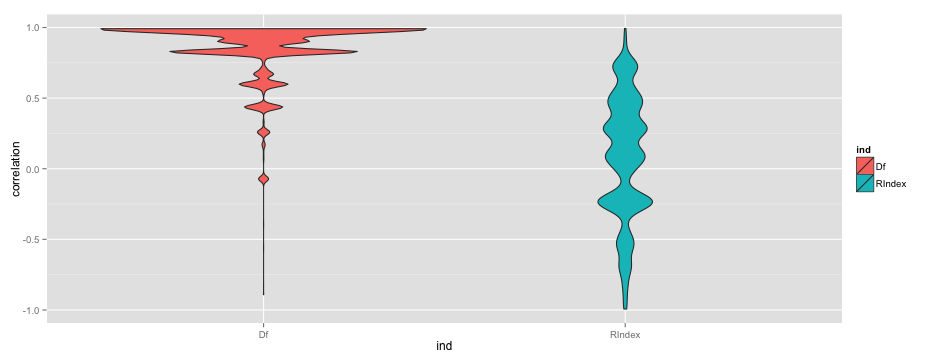
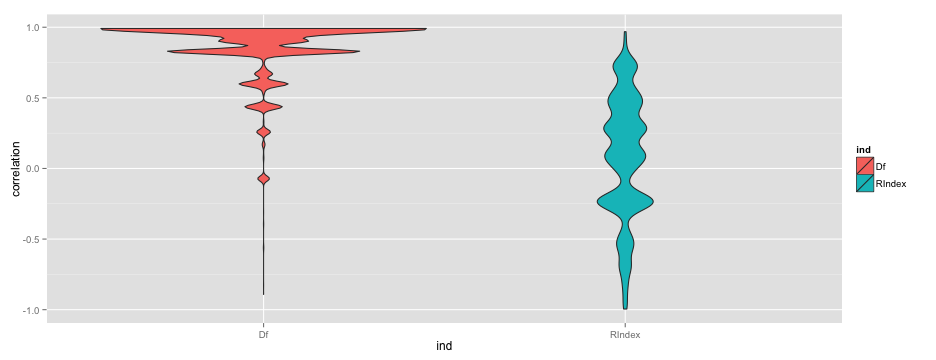
publishing deck

diff --git a/Index.html b/Index.html
@@ -44,10 +44,10 @@
     <!-- SLIDES -->
       <slide class="" id="slide-1" style="background:;">
   <hgroup>
-    <h1>Introduzione</h1>
+    <h2>Introduzione</h2>
   </hgroup>
   <article>
-    <p>Per dare un senso a quello che dicevo in email, ho creato un <em>framework</em> per testare la bontà dei diversi indici di presenza di habitat di salamandre che si possono calcolare rimescolando le variae misure da prendere in campo (perimetro, diametro, numero delle concavità ecc.). Il <em>framework</em> è un semplice <em>script</em> R, lo stesso che ha prodotto questo breve <em>report</em>.</p>
+    <p>Per dare un senso a quello che dicevo, ho creato un <em>framework</em> per testare la bontà dei diversi indici di presenza di habitat di salamandre che si possono calcolare rimescolando le variae misure da prendere in campo (perimetro, diametro, numero delle concavità ecc.). Il <em>framework</em> è un semplice <em>script</em> R, lo stesso che ha prodotto questo breve <em>report</em>.</p>
 
 <p>Per testare lo script ho disegnato il profilo di tre ceppaie afferenti a tre tipologie diverse per potenziale presenza di habitat (nessuno [<code>Cerchio</code>], qualche [<code>Carpino</code>], molti [<code>Carpinoso</code>] habitat):</p>
 
@@ -55,16 +55,26 @@
 <img src="images/Carpino.jpg" alt="Ipotetica ceppaia con habitat">
 <img src="images/Carpinoso.jpg" alt="Ipotetica ceppaia con molti habitat"></p>
 
-<p>Il framework calcola tutti i potenziali indici per ciascuna tipologia, simula il conteggio delle salamandre trovate nelle 3 ceppaie e calcola la correlazione tra ciascuno degli indici e il conteggio di salamandre per ogni tipologia di ceppaia. Una migliore correlazione indica un indice più performante.
-Per ora, gli indici considerati in questo test sono solo la dimensione frattale e l&#39;indice proposto da Romano.</p>
-
   </article>
   <!-- Presenter Notes -->
 </slide>
 
       <slide class="" id="slide-2" style="background:;">
   <hgroup>
-    <h2>Misure</h2>
+    <h2>Cosa fa lo script</h2>
+  </hgroup>
+  <article>
+    <p>Il framework calcola tutti gli indici per ciascuna tipologia, simula un conteggio delle salamandre che si potrebbero potenzialmente rilevare in ciascuna delle 3 tipologie di ceppaie e calcola la correlazione tra ciascuno degli indici e il conteggio di salamandre per ogni tipologia di ceppaia. Una migliore correlazione indica un indice più performante.</p>
+
+<p>Per ora, gli indici considerati in questo test sono solo la dimensione frattale e l&#39;indice proposto da Romano.</p>
+
+  </article>
+  <!-- Presenter Notes -->
+</slide>
+
+      <slide class="" id="slide-3" style="background:;">
+  <hgroup>
+    <h3>Misure</h3>
   </hgroup>
   <article>
     <p>Su ciascuno, con <code>ImageJ</code>, ho misurato la dimensione frattale (<code>Df</code>), perimetro (<code>B</code>), diametro massimo (<code>maxD</code>) ed ho imnposto che il diametro a 1.30m sia 100 (<code>dbh</code>), ossia il diametro della ceppaia a cerchio:</p>
@@ -79,9 +89,9 @@ Per ora, gli indici considerati in questo test sono solo la dimensione frattale 
   <!-- Presenter Notes -->
 </slide>
 
-      <slide class="" id="slide-3" style="background:;">
+      <slide class="" id="slide-4" style="background:;">
   <hgroup>
-    <h2>Simulazione</h2>
+    <h3>Simulazione</h3>
   </hgroup>
   <article>
     <p>La simulazione siumula di trovare le salamandre in ciascuna tipologia di ceppaia. La simulazione del conteggio di salamandre avviene estraendo numeri da una distribuzione normale di media e deviazione standard prefissati, per ogni tipologia di ceppaia:</p>
@@ -92,9 +102,9 @@ Per ora, gli indici considerati in questo test sono solo la dimensione frattale 
 ## 3   Cerchio    0  0.5
 </code></pre>
 
-<p>Per esempio, il numero di salamandre trovate nella simulazione della ceppaia <code>Carpinoso</code> viene estratta da una \(\mathcal{N}(\) 3 \(,\) 1 \()\) troncata a 0. Su 10 alberi carpinosi, potremmo trovare: 2, 2, 3, 2, 3, 4, 1, 2, 3, 3 salamandre.</p>
+<p>Per esempio, il numero di salamandre trovate nella simulazione della ceppaia <code>Carpinoso</code> viene estratta da una \(\mathcal{N}(\) 3 \(,\) 1 \()\) troncata a 0. Su 10 alberi carpinosi, potremmo trovare: 2, 3, 3, 2, 1, 4, 4, 3, 2, 1 salamandre.</p>
 
-<p>Per la ceppaia <code>Carpino</code>, invece, potremmo avere un numero di salamandre da una \(\mathcal{N}(\) 2 \(,\) 1 \()\), per esempio: 3, 3, 2, 2, 2, 1, 2, 2, 3, 3</p>
+<p>Per la ceppaia <code>Carpino</code>, invece, potremmo avere un numero di salamandre da una \(\mathcal{N}(\) 2 \(,\) 1 \()\), per esempio: 1, 2, 1, 0, 2, 2, 3, 4, 1, 2</p>
 
 <p><strong>I parametri delle distribuzioni sono da definire secondo l&#39;esperienza di Antonio.</strong></p>
 
@@ -102,9 +112,9 @@ Per ora, gli indici considerati in questo test sono solo la dimensione frattale 
   <!-- Presenter Notes -->
 </slide>
 
-      <slide class="" id="slide-4" style="background:;">
+      <slide class="" id="slide-5" style="background:;">
   <hgroup>
-    <h1>Valori degli indici</h1>
+    <h2>Valori dell&#39;indice di A.Romano</h2>
   </hgroup>
   <article>
     <p>I valori dell&#39;indice di A. Romano per le tre ceppaie, secondo l&#39;equazione \(\left(\frac{B}{C}/\frac{C}{T}\right)-1\) e la dimensione frattale sono:</p>
@@ -129,20 +139,20 @@ print(sIndexRaw[, c(&quot;Forma&quot;, &quot;RIndex&quot;, &quot;Df&quot;)])
   <!-- Presenter Notes -->
 </slide>
 
-      <slide class="" id="slide-5" style="background:;">
+      <slide class="" id="slide-6" style="background:;">
   <hgroup>
-    <h1>Simulazione</h1>
+    <h2>Simulazione</h2>
   </hgroup>
   <article>
     <p>Eseguo 10000 simulazioni, su 3 tipologie di ceppaie, ottengo 30000 dati di conteggi di salamandre (come se avessi campionato 10000 boschi di 3 alberi ciascuno). </p>
 
 <p>Per ogni simulazione (o bosco) ho a disposizione i 2 indici, per ciascuno dei quali calcolo la correlazione lineare (pearson) con il numero di salamandre.</p>
 
-<p>La media e la deviazione standard sulle 10000 simulazioni della correlazione tra indice e numero salamandre, per ciascun indice sono le seguenti:</p>
+<p>La media e la deviazione standard sulle 10000 simulazioni della correlazione tra indice e numero salamandre, per ciascun indice (<code>Df</code> è la dimensione frattale, <code>RIndex</code> è l&#39;indice di A.Romano) sono le seguenti:</p>
 
 <pre><code>##       ind correlationAvg correlationStd
-## 1:     Df        0.85769         0.2018
-## 2: RIndex        0.07805         0.4316
+## 1:     Df        0.85676         0.2044
+## 2: RIndex        0.07309         0.4307
 </code></pre>
 
 <p>L&#39;indice con <code>correlationAvg</code> maggiore è il migliore.</p>
@@ -151,14 +161,35 @@ print(sIndexRaw[, c(&quot;Forma&quot;, &quot;RIndex&quot;, &quot;Df&quot;)])
   <!-- Presenter Notes -->
 </slide>
 
-      <slide class="" id="slide-6" style="background:;">
+      <slide class="" id="slide-7" style="background:;">
   <hgroup>
-    <h1>Risultati</h1>
+    <h2>Risultati</h2>
   </hgroup>
   <article>
     <p><img src="figure/Plot.png" alt="plot of chunk Plot"> </p>
 
 <p>Grafico a violino della distribuzione delle 10000 correlazioni tra ciascun indice di presenza di habitat ed il numero simulato di salamandre nelle varie tipologie di ceppaie. L&#39;ampiezza del &quot;violino&quot; è proporzionale al numero di punti corrispondenti alla correlazione (sulle ordinate). Tanto più ampio è il violino verso valori di correlazione pari ad 1, tanto migliore è l&#39;indice per descrivere il numero di salamandre nella ceppaia.</p>
+
+  </article>
+  <!-- Presenter Notes -->
+</slide>
+
+      <slide class="" id="slide-8" style="background:;">
+  <hgroup>
+    <h2>Conclusioni</h2>
+  </hgroup>
+  <article>
+    <p>Il framework per il calcolo è pronto. Occorre:</p>
+
+<ol>
+<li>disegnare delle tipologie di ceppaie (più) realistiche</li>
+<li>creare una famiglia di indici papabili (cfr. proposta di Mario)</li>
+<li>misurare le varie lunghezze necessarie sui disegni</li>
+<li>stimare i parametri della distribuzione probabile del numero di salamandre in ogni tipologia di ceppaia</li>
+<li>eseguire lo script</li>
+<li>selezionare gli indici più performanti</li>
+<li>giudicare la loro speditività nella pratica</li>
+</ol>
 
   </article>
   <!-- Presenter Notes -->
